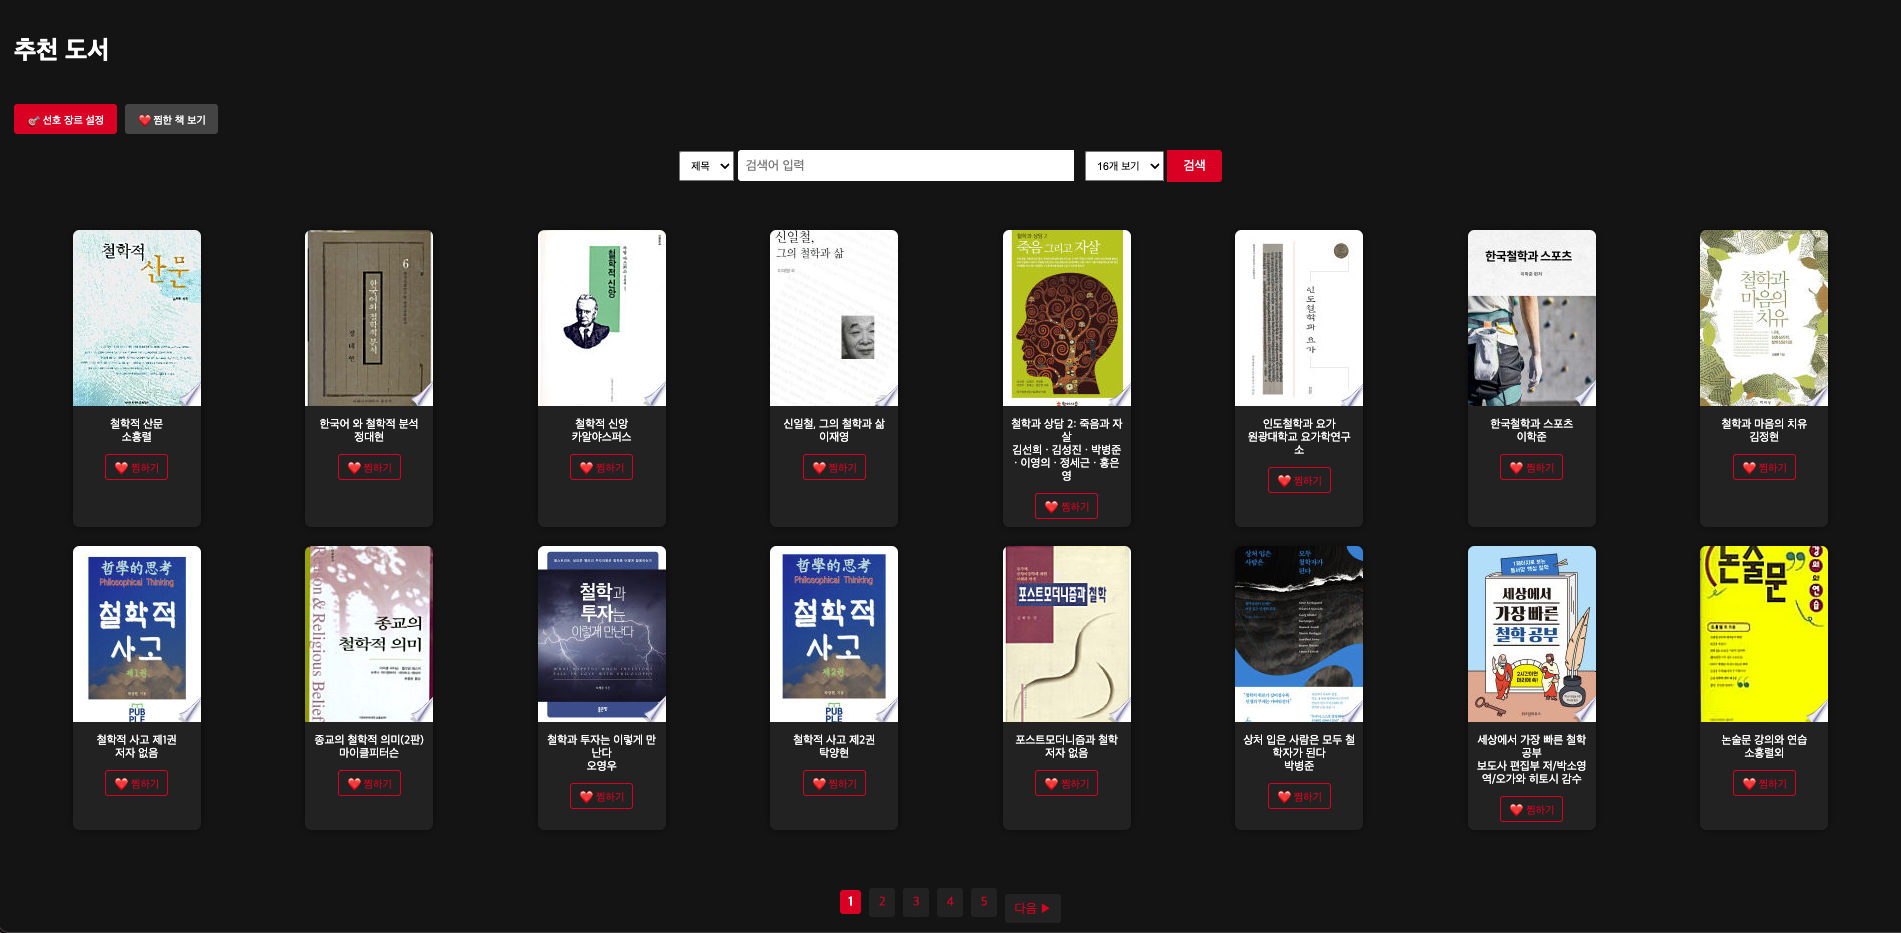
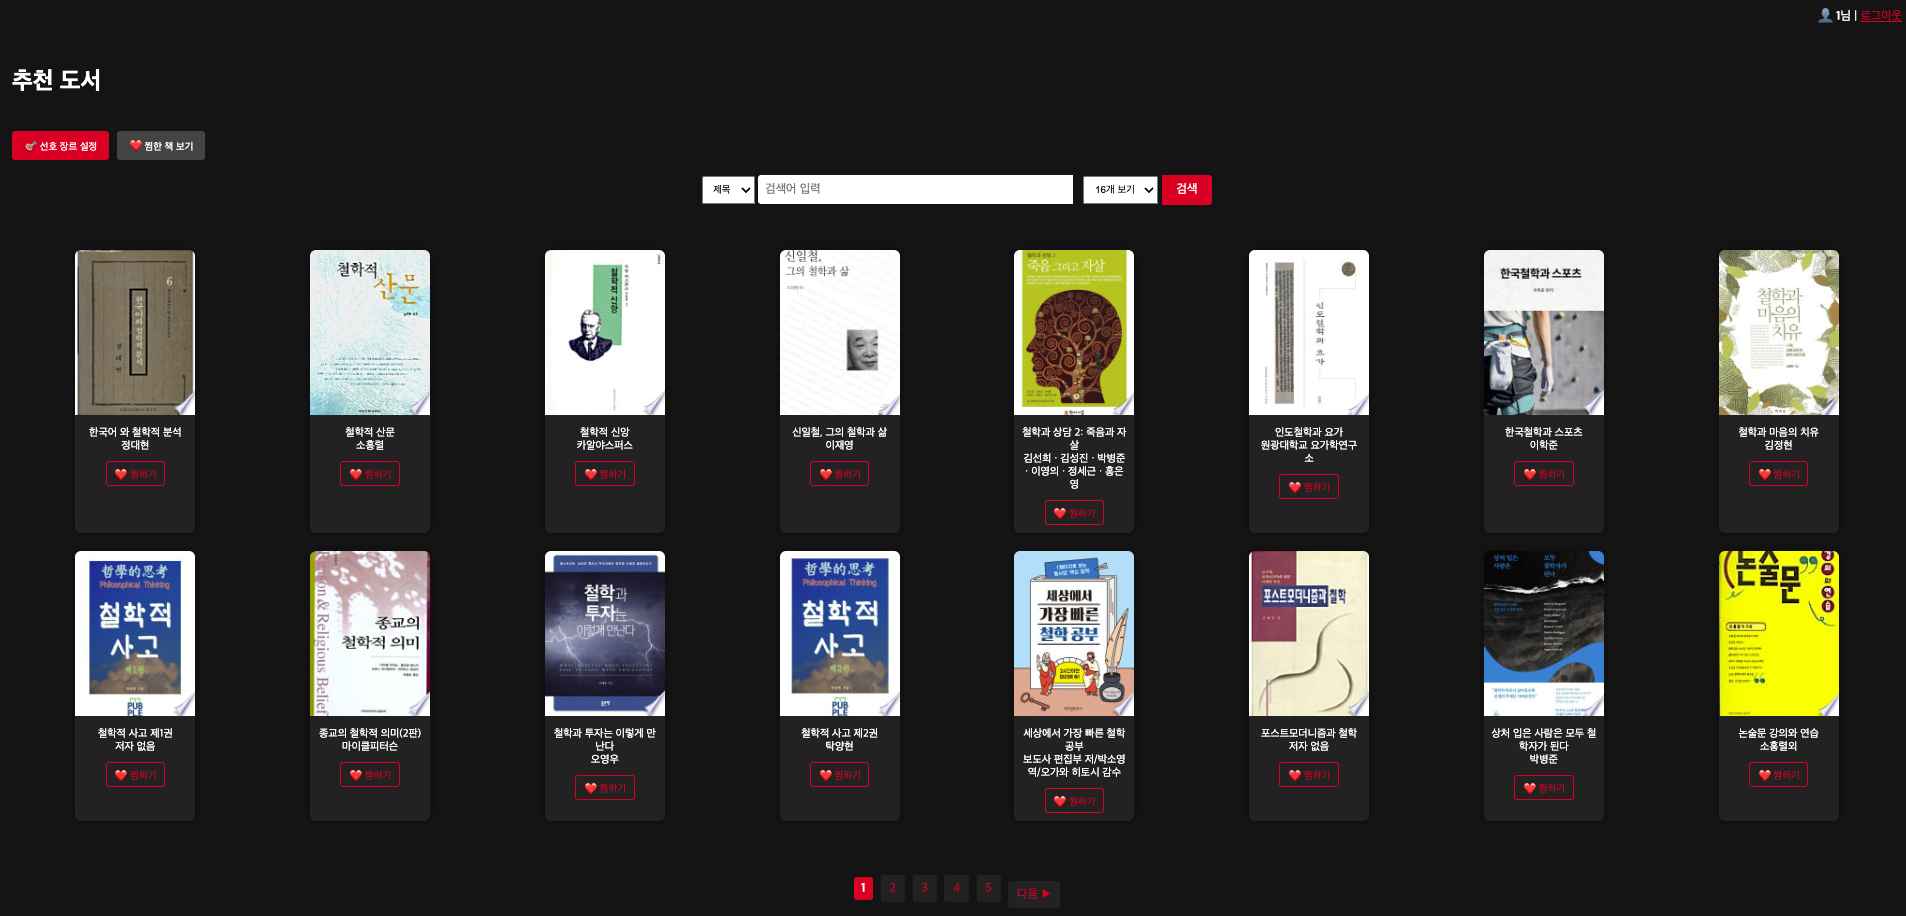
수정

diff --git a/README.md b/README.md
@@ -1,7 +1,7 @@
 # 📘 BookMe - 도서 추천 웹 프로젝트
 
-**BookMe**는 사용자의 선호 장르를 기반으로 책을 추천하고, Google Books API를 통해 도서를 검색할 수 있는 웹 프로젝트 입니다.  
-
+**BookMe**는 사용자의 선호 장르를 기반으로 책을 추천하고,  
+Google Books API를 통해 도서를 검색할 수 있는 웹 프로젝트입니다.
 
 ---
 
@@ -29,6 +29,9 @@
 - 📚 선호 장르 기반 도서 추천 자동 제공
 - 📄 페이지네이션 + 보기 수 선택 기능 (8 / 16 / 24개)
 - ❤ 도서 찜하기 및 찜한 책 목록 관리 (중복 방지 및 토글 지원)
+- 📌 로그인 여부에 따른 상단 로그인 / 로그아웃 버튼 표시
+- 🚫 비로그인 시 찜하기 / 찜목록 접근 시 알림창 + 로그인 유도
+- 🏠 첫 진입 시 자동 `/recommend` 페이지로 리다이렉트
 
 ---
 
@@ -42,6 +45,7 @@ src
     │       ├── config
     │       │   └── SecurityConfig.java            # Spring Security 설정
     │       ├── controller
+    │       │   ├── HomeController.java            # 첫 페이지 리다이렉트 컨트롤러
     │       │   ├── PreferenceController.java      # 장르 설정 컨트롤러
     │       │   ├── RecommendController.java       # 추천/검색 페이지 컨트롤러
     │       │   ├── UserController.java            # 로그인/회원가입 처리
@@ -86,6 +90,8 @@ src
     │   └── application.yml                        # 환경설정 파일
 </pre>
 
+---
+
 ## 📸 스크린샷
 
 ### 🔐 로그인
@@ -102,4 +108,3 @@ src
 
 ### 💖 찜한 책 목록
 ![찜한 책 화면](images/wishlist.png)
-
